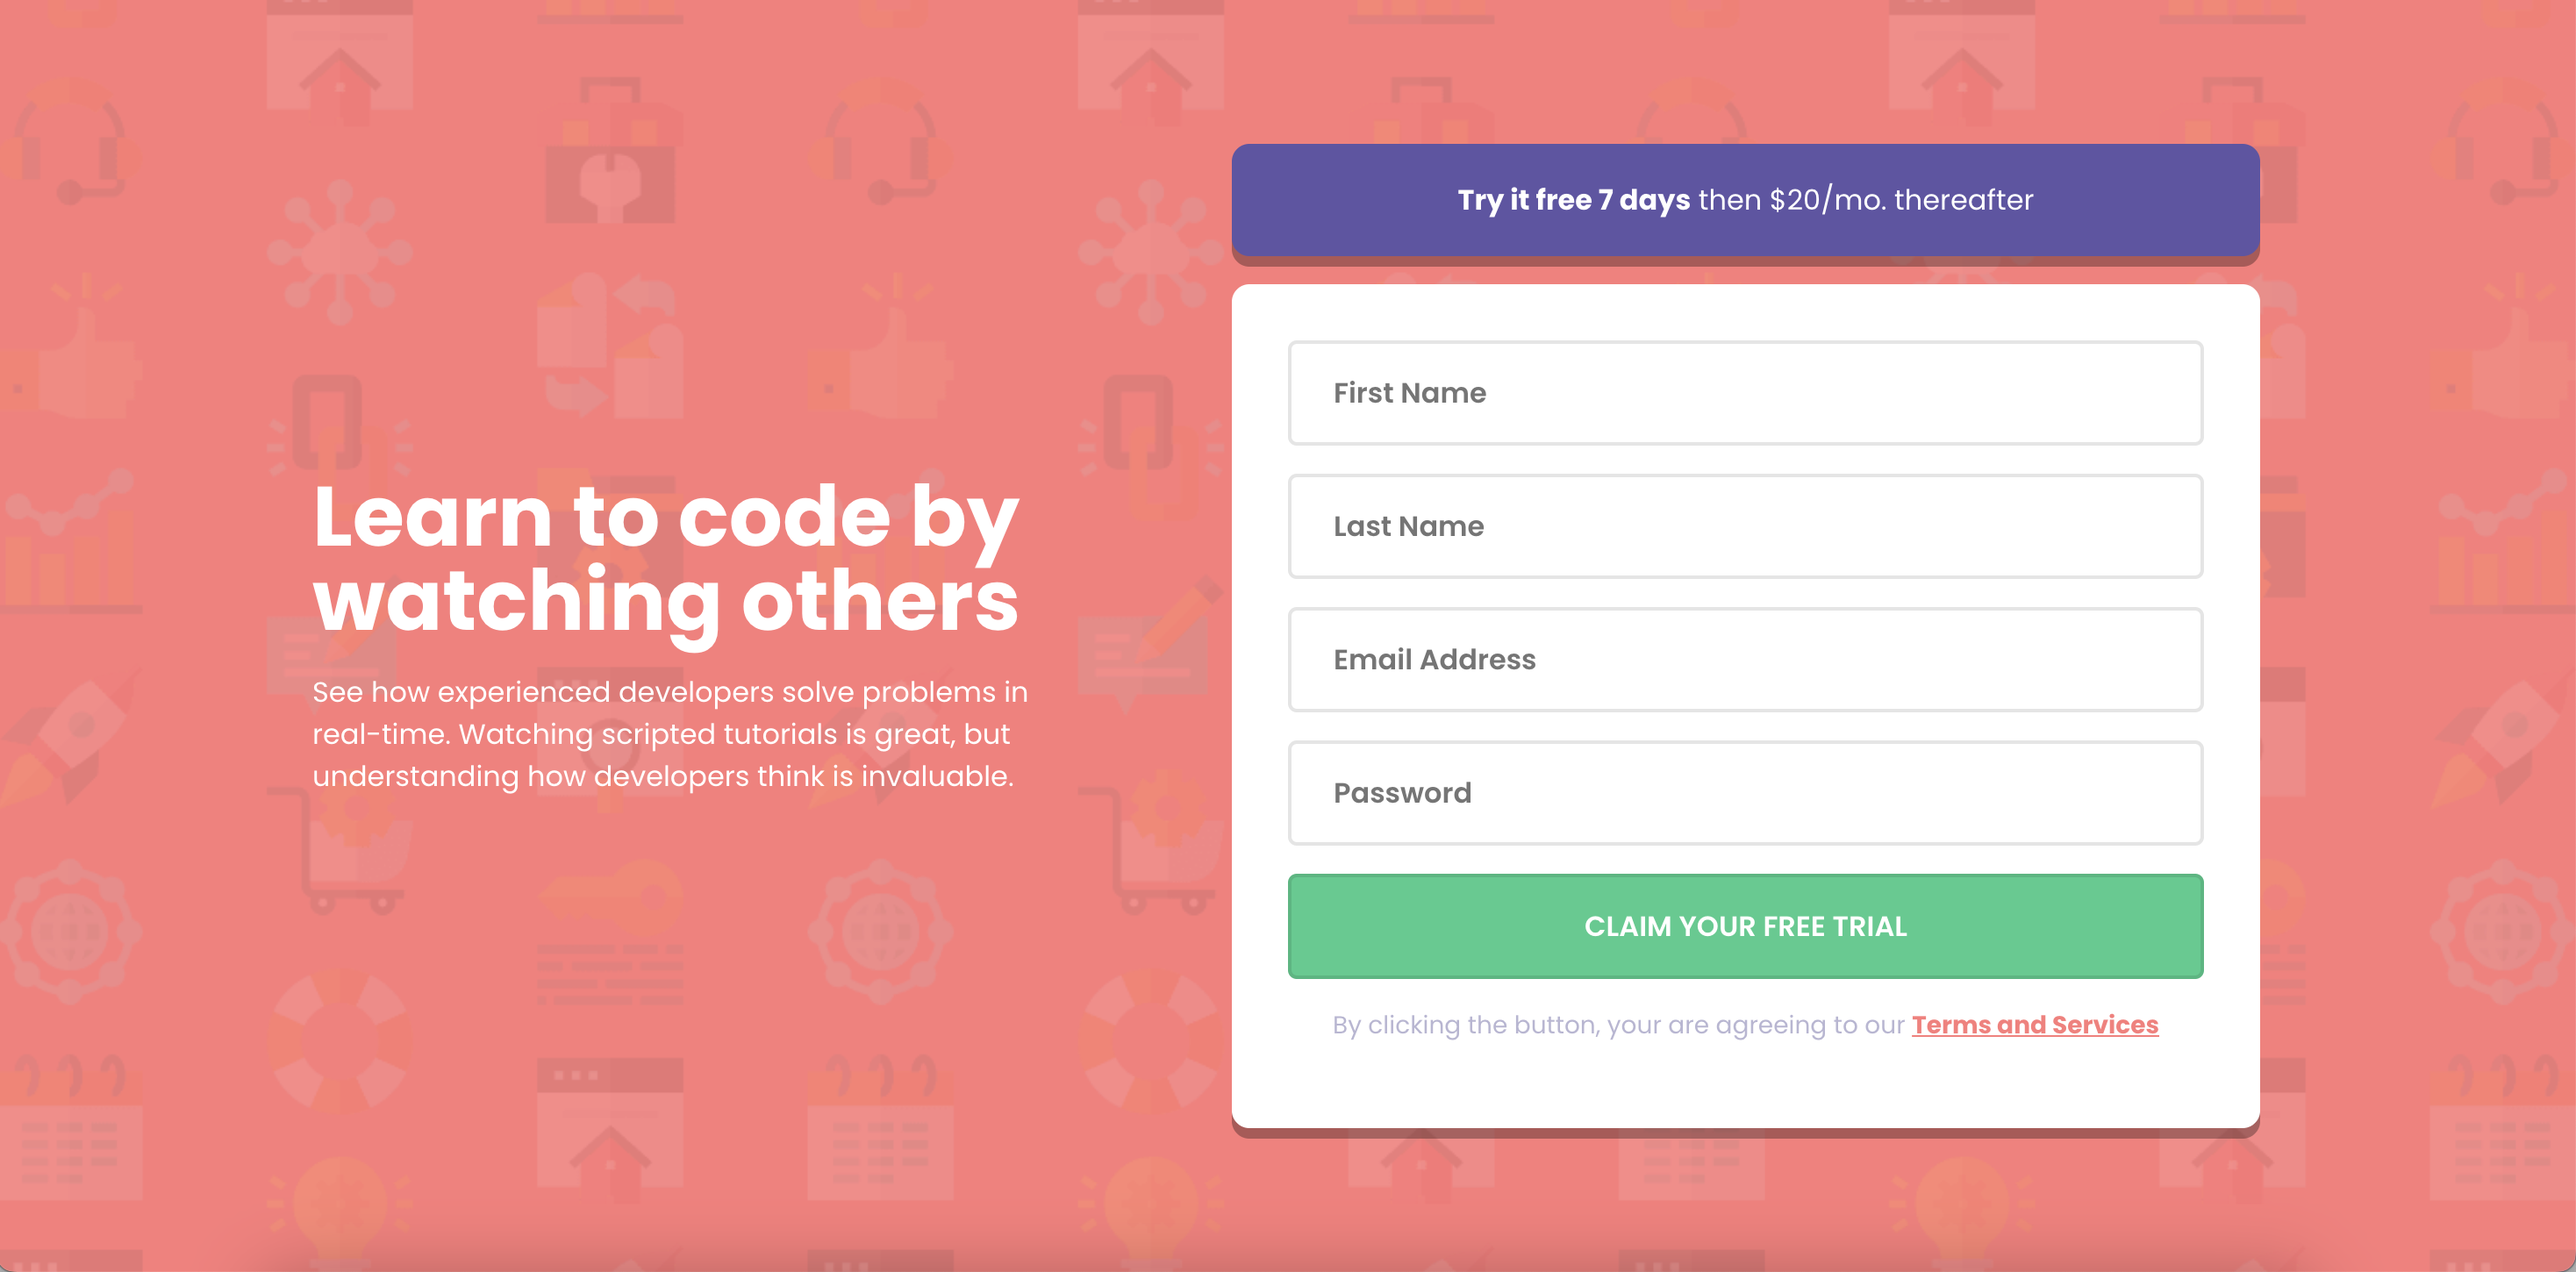
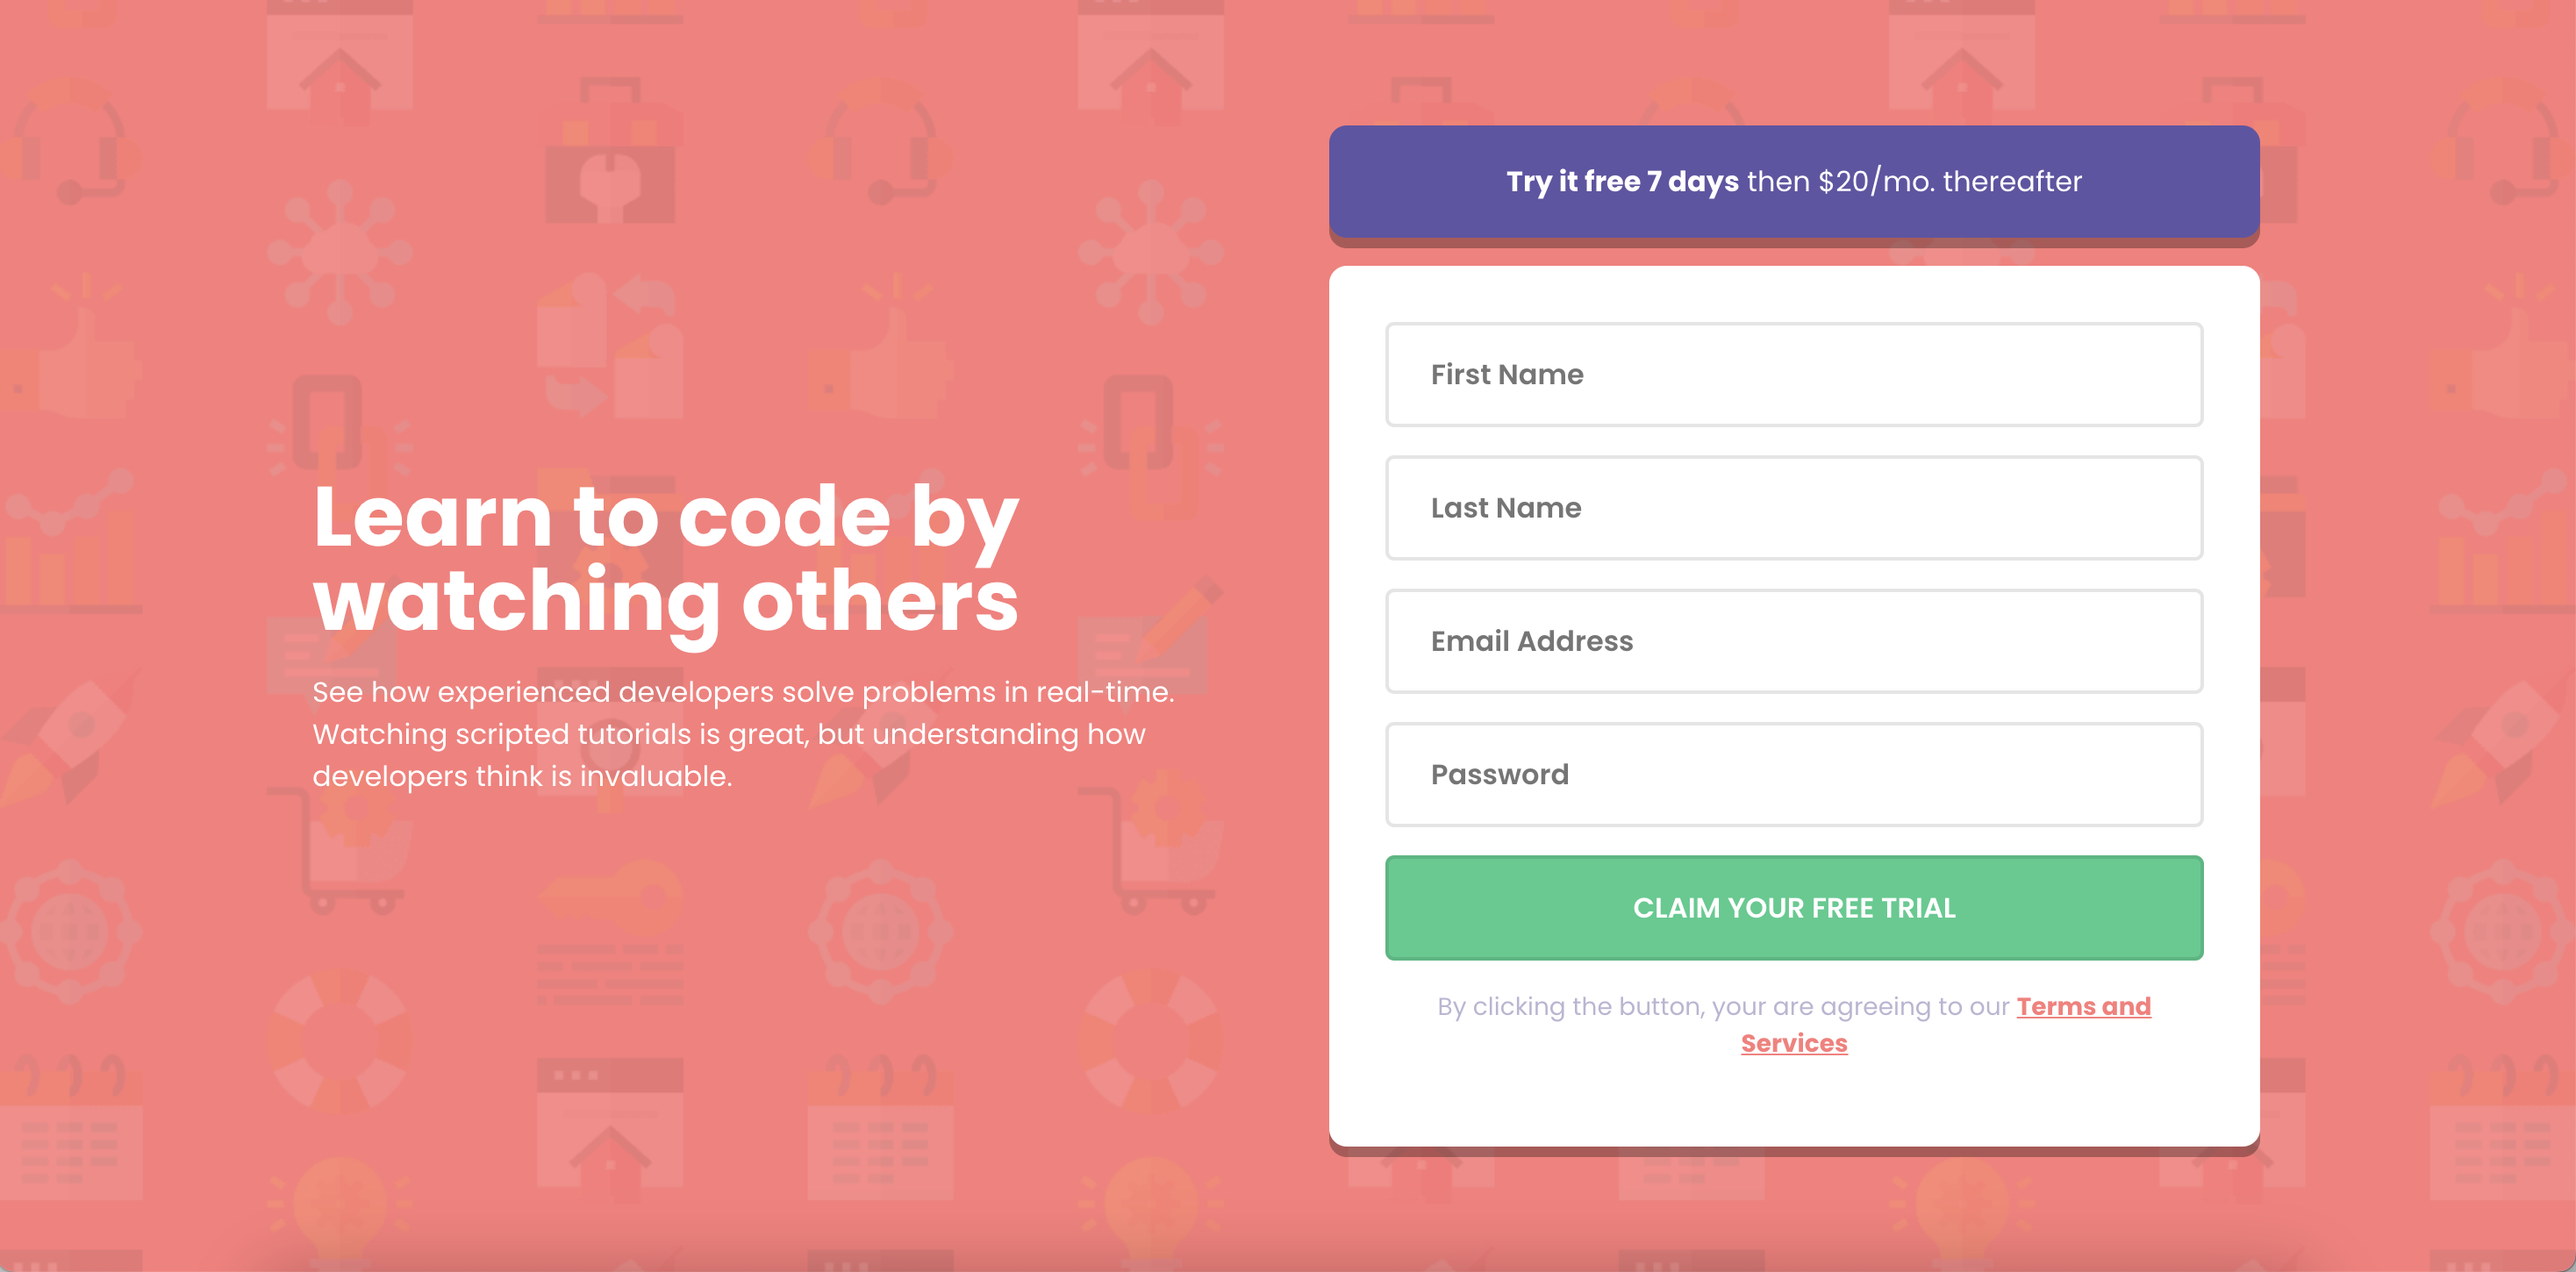
some adjust

Changed region(s): [[0.124, 0.0931, 0.8988, 0.931]]

diff --git a/public_html/css/styles.min.css b/public_html/css/styles.min.css
@@ -1,1 +1,1 @@
-*,*::before,*::after{-webkit-box-sizing:border-box;box-sizing:border-box}*{margin:0}body{line-height:1.5;-webkit-font-smoothing:antialiased}img,picture,video,canvas,svg{display:block;max-width:100%}input,button,textarea,select{font:inherit}p,h1,h2,h3,h4,h5,h6{overflow-wrap:break-word}h1{line-height:1}.bold{font-weight:700}.flex{display:-webkit-box;display:-ms-flexbox;display:flex}.grid{display:grid}.gap-1{gap:1rem}body{min-height:100vh;padding:1rem;display:grid;place-items:center;background-image:url("../images/bg-intro-mobile.png");background-position:center;background-repeat:no-repeat;background-size:cover;background-color:#ff7a7a;font-family:"Poppins",sans-serif;font-size:1rem;font-weight:400}@media only screen and (min-width: 1000px){body{background-image:url("../images/bg-intro-desktop.png")}}.container{padding-top:5rem;text-align:center;color:#fff;-webkit-box-orient:vertical;-webkit-box-direction:normal;-ms-flex-direction:column;flex-direction:column;gap:3rem}@media only screen and (min-width: 1000px){.container{padding-top:0;-webkit-box-orient:horizontal;-webkit-box-direction:normal;-ms-flex-direction:row;flex-direction:row;-webkit-box-align:center;-ms-flex-align:center;align-items:center;-webkit-box-pack:justify;-ms-flex-pack:justify;justify-content:space-between;gap:5rem;max-width:1110px}.container-info{text-align:left;max-width:40%}.container-info h1{font-size:3rem}}.container-form{gap:1.5rem}@media only screen and (min-width: 1000px){.container-form{gap:1rem;width:60%}}.container-form .offer{background-color:#6055a5;padding:1.25rem 4rem;border-radius:.625rem;box-shadow:0px 6px 0px 0px rgba(0,0,0,.3);-webkit-box-shadow:0px 6px 0px 0px rgba(0,0,0,.3)}.container-form .form-container{background-color:#fff;border-radius:10px;padding:1rem;box-shadow:0px 6px 0px 0px rgba(0,0,0,.3);-webkit-box-shadow:0px 6px 0px 0px rgba(0,0,0,.3)}@media only screen and (min-width: 1000px){.container-form .form-container{padding:2rem}}.container-form .form-container .policy{color:#b9b6d3;padding:1rem;font-size:.875rem}.container-form .form-container .policy a{color:#ff7a7a;font-weight:700}form{width:100%}form input{width:100%;padding:1rem;border:2px solid rgba(0,0,0,.1);border-radius:5px;font-weight:600}@media only screen and (min-width: 1000px){form input{padding:1rem 1.5rem}}form input:focus{outline:none;border-color:#3e3c49}form input.input-error{border-color:#ff7a7a}form input.input-error:focus{outline:none;display:-webkit-box;display:-ms-flexbox;display:flex}form input.input-error::before{display:block;content:"";width:25px;height:25px;background-color:red}form input[type=submit]{background-color:#38cc8c;color:#fff;cursor:pointer}form input[type=submit]:focus{outline:none}form input[type=submit]:hover{background-color:rgba(56,204,140,.7)}
+*,*::before,*::after{-webkit-box-sizing:border-box;box-sizing:border-box}*{margin:0}body{line-height:1.5;-webkit-font-smoothing:antialiased}img,picture,video,canvas,svg{display:block;max-width:100%}input,button,textarea,select{font:inherit}p,h1,h2,h3,h4,h5,h6{overflow-wrap:break-word}h1{line-height:1}.bold{font-weight:700}.flex{display:-webkit-box;display:-ms-flexbox;display:flex}.grid{display:grid}.gap-1{gap:1rem}body{min-height:100vh;padding:1rem;display:grid;place-items:center;background-image:url("../images/bg-intro-mobile.png");background-position:center;background-repeat:no-repeat;background-size:cover;background-color:#ff7a7a;font-family:"Poppins",sans-serif;font-size:1rem;font-weight:400}@media only screen and (min-width: 1000px){body{background-image:url("../images/bg-intro-desktop.png")}}.container{padding-top:5rem;text-align:center;color:#fff;-webkit-box-orient:vertical;-webkit-box-direction:normal;-ms-flex-direction:column;flex-direction:column;gap:3rem}@media only screen and (min-width: 1000px){.container{padding-top:0;-webkit-box-orient:horizontal;-webkit-box-direction:normal;-ms-flex-direction:row;flex-direction:row;-webkit-box-align:center;-ms-flex-align:center;align-items:center;-webkit-box-pack:justify;-ms-flex-pack:justify;justify-content:space-between;gap:5rem;max-width:1110px}.container-info{text-align:left;max-width:45%}.container-info h1{font-size:3rem}}.container-form{gap:1.5rem}@media only screen and (min-width: 1000px){.container-form{gap:1rem;width:55%}}.container-form .offer{background-color:#6055a5;padding:1.25rem 4rem;border-radius:.625rem;box-shadow:0px 6px 0px 0px rgba(0,0,0,.3);-webkit-box-shadow:0px 6px 0px 0px rgba(0,0,0,.3)}.container-form .form-container{background-color:#fff;border-radius:10px;padding:1rem;box-shadow:0px 6px 0px 0px rgba(0,0,0,.3);-webkit-box-shadow:0px 6px 0px 0px rgba(0,0,0,.3)}@media only screen and (min-width: 1000px){.container-form .form-container{padding:2rem}}.container-form .form-container .policy{color:#b9b6d3;padding:1rem;font-size:.875rem}.container-form .form-container .policy a{color:#ff7a7a;font-weight:700}form{width:100%}form input{width:100%;padding:1rem;border:2px solid rgba(0,0,0,.1);border-radius:5px;font-weight:600}@media only screen and (min-width: 1000px){form input{padding:1rem 1.5rem}}form input:focus{outline:none;border-color:#3e3c49}form input.input-error{border-color:#ff7a7a}form input.input-error:focus{outline:none;display:-webkit-box;display:-ms-flexbox;display:flex}form input.input-error::before{display:block;content:"";width:25px;height:25px;background-color:red}form input[type=submit]{background-color:#38cc8c;color:#fff;cursor:pointer}form input[type=submit]:focus{outline:none}form input[type=submit]:hover{background-color:rgba(56,204,140,.7)}

diff --git a/scss/_component.scss b/scss/_component.scss
@@ -18,7 +18,7 @@
 
         &-info {
             text-align: left;
-            max-width: 40%;
+            max-width: 45%;
         
             h1 {
                 font-size: 3rem;
@@ -31,7 +31,7 @@
         
         @include devices("desktop"){
             gap: 1rem;
-            width: 60%;
+            width: 55%;
         }
 
         .offer {

diff --git a/public_html/css/styles.css b/public_html/css/styles.css
@@ -115,7 +115,7 @@ body {
   }
   .container-info {
     text-align: left;
-    max-width: 40%;
+    max-width: 45%;
   }
   .container-info h1 {
     font-size: 3rem;
@@ -127,7 +127,7 @@ body {
 @media only screen and (min-width: 1000px) {
   .container-form {
     gap: 1rem;
-    width: 60%;
+    width: 55%;
   }
 }
 .container-form .offer {
